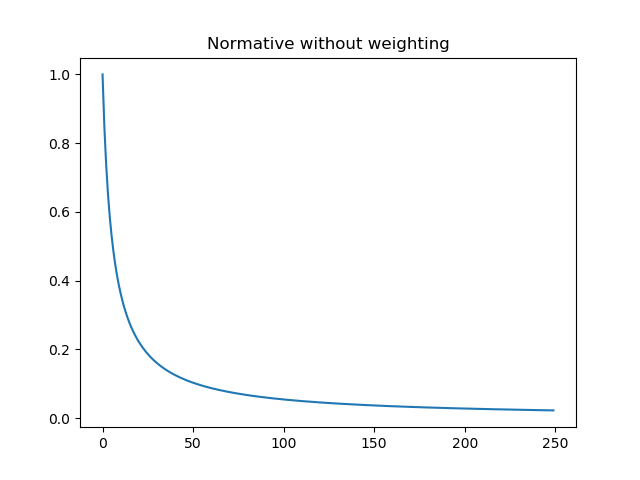
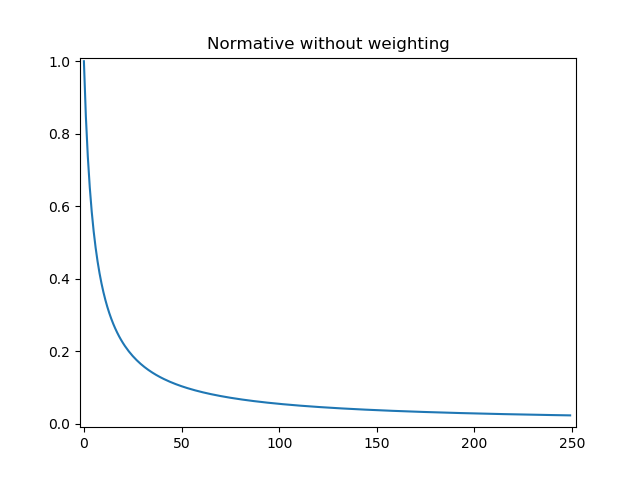
Change results

diff --git a/main.py b/main.py
@@ -28,7 +28,7 @@ v4 = HyperpriorVariable(names = ["Coin Outcome", "Fairness", "Brightness", "Pers
 
 
 # Methods for creating agent title in plot
-use_sampling = False
+use_sampling = True
 use_weighting = False
 
 # Define network for agents
@@ -78,20 +78,25 @@ for i in tqdm(range(epochs)):
 x = [i for i in range(epochs)]
 
 plt.figure()
+plt.plot(x, err)
+plt.axis([-2, 252, -0.01, 1.01])
 
 if use_sampling:
 	if use_weighting:
-		plt.title("Sampling with weighting")
+		plt.title("Sampling with weighting ({0} samples)".format(nr_samples))
+		plt.savefig('Results/sample_weight_{0}_samples.png'.format(nr_samples))
 	else:
-		plt.title("Sampling without weighting")
+		plt.title("Sampling without weighting ({0} samples)".format(nr_samples))
+		plt.savefig('Results/sample_no_weight_{0}_samples.png'.format(nr_samples))
 else:
 	if use_weighting:
 		plt.title("Normative with weighting")
+		plt.savefig('Results/normative_weight.png')
 	else:
 		plt.title("Normative without weighting")
+		plt.savefig('Results/normative_no_weight.png')
 
-plt.plot(x, err)
-plt.show()
+#plt.show()
 
 
 
